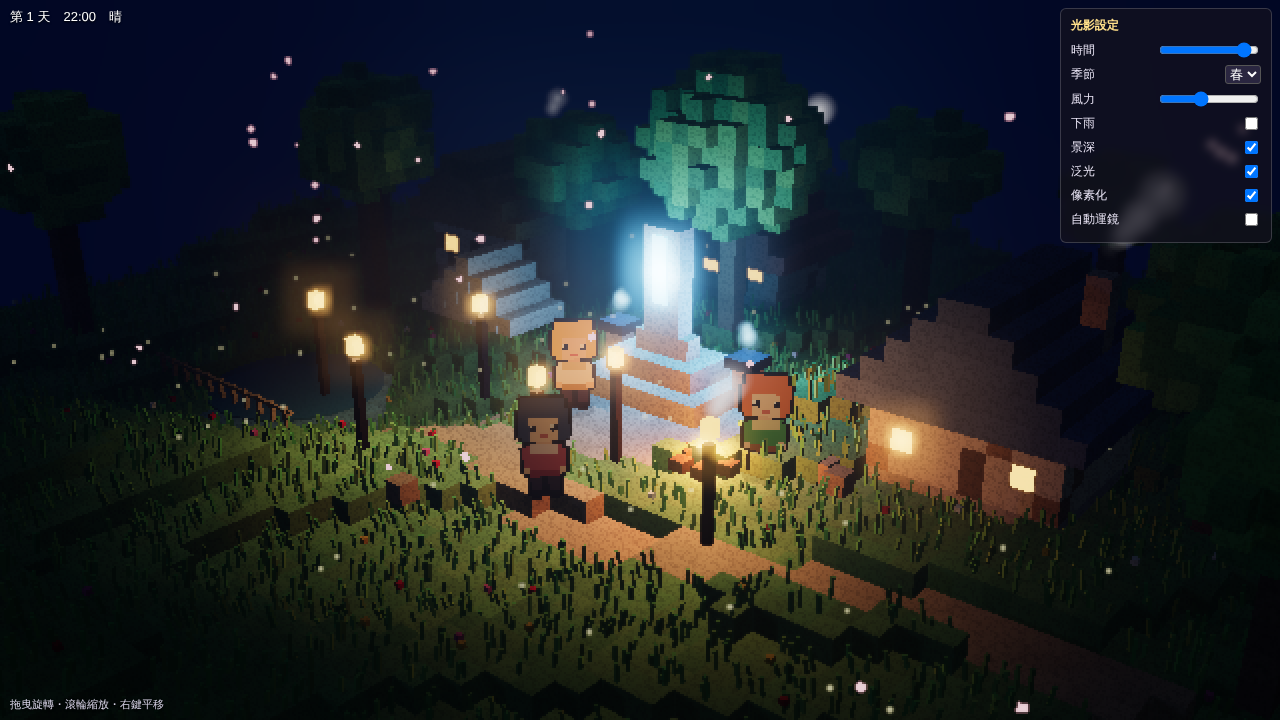
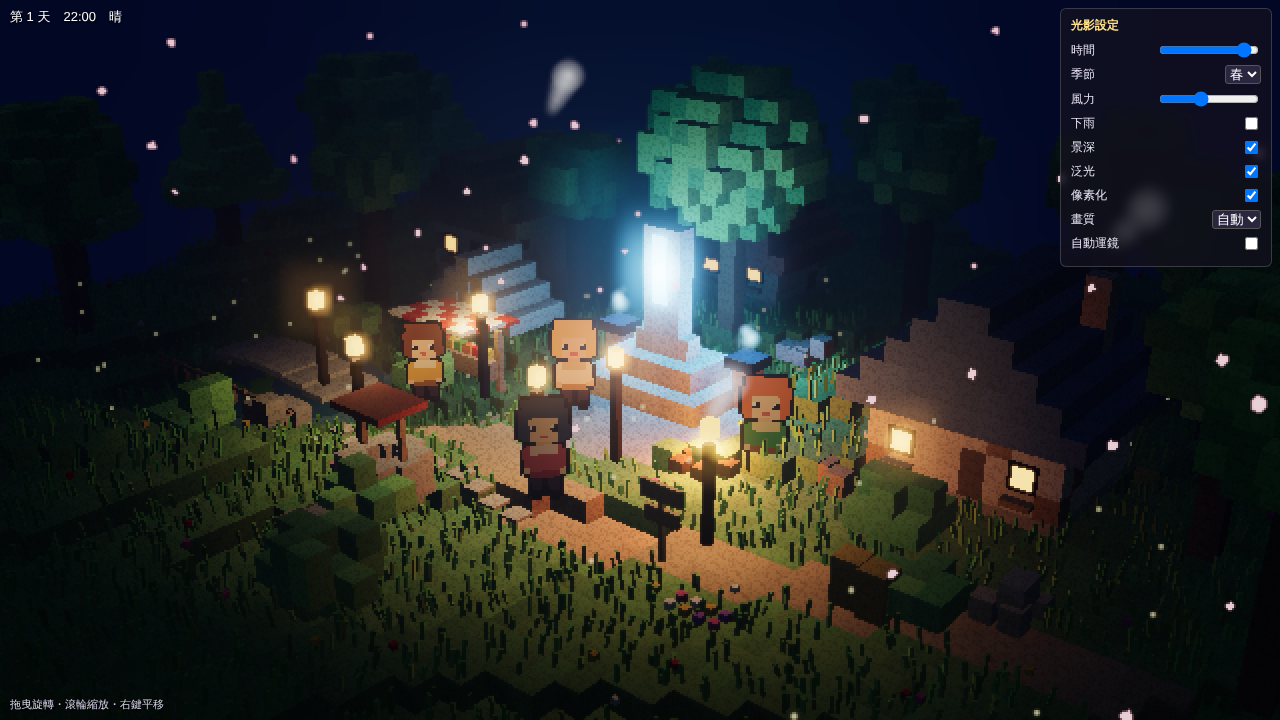
HD-2D 測試：美術加細（市集、水井、石橋、松樹、灌木、乾草、雲與雲影）、地形去掉看不到的方塊（三角形 74 萬→50 萬）、手機面板預設收合、整幀繪製量統計
Claude-Session: https://claude.ai/code/session_01T2m48yY9VNHhuqa1fb9V8L

diff --git a/hd2d-test/src/main.js b/hd2d-test/src/main.js
@@ -16,7 +16,7 @@ const LOW = q.get('q') === 'low' || (q.get('q') !== 'high' && (matchMedia('(poin
 
 // ---------- 渲染器與場景 ----------
 const renderer = new THREE.WebGLRenderer({ antialias: false, powerPreference: 'high-performance' });
-renderer.shadowMap.enabled = true; renderer.shadowMap.type = THREE.PCFSoftShadowMap;
+renderer.info.autoReset = false; renderer.shadowMap.enabled = true; renderer.shadowMap.type = THREE.PCFSoftShadowMap;
 renderer.toneMapping = THREE.ACESFilmicToneMapping; renderer.toneMappingExposure = 1.0;
 document.body.appendChild(renderer.domElement);
 const scene = new THREE.Scene();
@@ -50,15 +50,16 @@ class Voxels {
 
 // ---------- 地形 ----------
 const N = 64, H = N / 2;
-const hgt = (x, z) => Math.floor(1.6 * (Math.sin(x * 0.13) * Math.cos(z * 0.11) + 0.5 * Math.sin(x * 0.31 + z * 0.27)) + 1.6 * Math.max(0, (Math.hypot(x, z) - 20) / 16));
+const hgt = (x, z) => { const h = Math.floor(1.6 * (Math.sin(x * 0.13) * Math.cos(z * 0.11) + 0.5 * Math.sin(x * 0.31 + z * 0.27)) + 1.6 * Math.max(0, (Math.hypot(x, z) - 20) / 16)); return x + z > 10 ? Math.min(h, Math.max(0, 1 - Math.floor((x + z - 10) / 8))) : h; };
 const ground = new Voxels({ rough: 1 });
 const isPlaza = (x, z) => Math.hypot(x, z * 1.1) < 7;
 const isPath = (x, z) => Math.abs(z - 9 - Math.sin(x * 0.2) * 1.4) < 1.5 && x > -10 || Math.abs(x + 6 + Math.sin(z * 0.2)) < 1.1 && z > -8 && z < 10;
 const pond = (x, z) => Math.hypot(x + 15, z - 9) < 4.2;
 const grassCells = [];
+const cellH = (x, z) => { let h = hgt(x, z); if (isPlaza(x, z) || isPath(x, z)) h = Math.min(h, 0); if (pond(x, z)) h = -1; return h; };
 for (let x = -H; x < H; x++) for (let z = -H; z < H; z++) {
-  let h = hgt(x, z); if (isPlaza(x, z) || isPath(x, z)) h = Math.min(h, 0); if (pond(x, z)) h = -1;
-  for (let y = Math.min(h, 0) - 1; y <= h; y++) {
+  const h = cellH(x, z), nh = Math.min(cellH(x + 1, z), cellH(x - 1, z), cellH(x, z + 1), cellH(x, z - 1));
+  for (let y = Math.min(h, nh); y <= h; y++) { // 只畫看得到的：最上面一層，加上露出側面的那幾層（被埋住的方塊不畫，省三角形）
     const top = y === h; let c;
     if (pond(x, z) && top) c = hsl(0.55, 0.45, 0.32 + rnd() * 0.03);
     else if (isPlaza(x, z) && top) c = hsl(0.1, 0.06, 0.4 + rnd() * 0.08);
@@ -71,6 +72,7 @@ for (let x = -H; x < H; x++) for (let z = -H; z < H; z++) {
 }
 ground.build();
 
+const flowers = new Voxels({ cast: false });
 // ---------- 建築與小物 ----------
 const wood = () => hsl(0.08, 0.4, 0.3 + rnd() * 0.06), plaster = () => hsl(0.12, 0.25, 0.7 + rnd() * 0.06), stone = () => hsl(0.1, 0.05, 0.45 + rnd() * 0.1), dark = () => hsl(0.07, 0.3, 0.16);
 const solid = new Voxels(), glowWin = new Voxels({ emissive: 0xffc060, cast: false }), blueFlame = [];
@@ -82,7 +84,7 @@ function house(x0, z0, w, d, h, roof, rotChim = true) {
     const y = h + k; for (let x = -1 + k; x <= w - k; x++) for (let z = -1; z <= d; z++) if (k * 2 < w + 1) solid.add(x0 + x, y, z0 + z, hsl(roof[0], roof[1], roof[2] + rnd() * 0.05 - k * 0.012));
   }
   const dx = x0 + Math.floor(w / 2); solid.add(dx, 1, z0 + d - 1, dark()); solid.add(dx, 2, z0 + d - 1, dark());
-  for (const wx of [x0 + 1, x0 + w - 2]) { glowWin.add(wx, 2, z0 + d - 1 + 0.02, 0xffd890, 0.9, 0.9, 1.05); }
+  for (const wx of [x0 + 1, x0 + w - 2]) { solid.add(wx, 2, z0 + d - 1 + 0.03, 0x3a2a20, 1.18, 1.18, 1.0); glowWin.add(wx, 2, z0 + d - 1 + 0.06, 0xffd890, 0.82, 0.82, 1.05); solid.add(wx, 1.05, z0 + d - 0.2, wood(), 1.2, 0.25, 0.5); }
   if (rotChim) { for (let y = h; y < h + 4; y++) solid.add(x0 + w - 2, y + 1, z0 + 1, stone()); smokeSources.push([x0 + w - 2, h + 5.5, z0 + 1]); }
 }
 const smokeSources = [];
@@ -119,8 +121,30 @@ lamps.forEach(([x, z]) => { for (let y = 0; y < 4; y++) solid.add(x, y + 0.5, z,
 [[10.5, 2], [11.5, 2.5], [-1, 14], [14, -1]].forEach(([x, z]) => solid.add(x, 0.5, z, wood(), 0.9));
 for (let x = -20; x < -9; x++) { solid.add(x, 0.6, 13, wood(), 0.2, 0.9, 0.2); solid.add(x, 0.9, 13, wood(), 1, 0.15, 0.15); }
 for (let k = 0; k < 4; k++) for (let x = -k; x <= k; x++) solid.add(-14 + x, 0.6 + (3 - k) * 0.9, -3, hsl(0.1, 0.25, 0.72), 0.95, 0.95, 4);
+
+// ---- 更多細節：松樹、灌木、石頭、市集攤位、水井、石橋、乾草、路標、墊腳石 ----
+function pine(x, z, h = 8) { const gy = Math.max(0, hgt(x, z)); for (let y = 0; y < 3; y++) solid.add(x, gy + y + 0.5, z, hsl(0.07, 0.4, 0.17)); for (let k = 0; k < h - 2; k++) { const r = Math.max(0, 3.4 - k * 0.5); for (let i = -4; i <= 4; i++) for (let j = -4; j <= 4; j++) if (Math.hypot(i, j) + rnd() * 0.5 < r) leaves.add(x + i, gy + 3 + k + 0.5, z + j, new THREE.Color(), 1, 1, 1, 0.9 + rnd() * 0.1); } }
+[[-31, 2], [-30, -14], [24, -22], [-17, -27], [34, -14], [36, 4], [-34, 10]].forEach(([x, z]) => pine(x, z, 8 + Math.floor(rnd() * 3)));
+function bush(x, z, r = 1.6) { const gy = Math.max(0, hgt(x, z)); for (let i = -2; i <= 2; i++) for (let j = -1; j <= 1; j++) for (let k = -2; k <= 2; k++) if (Math.hypot(i, j * 1.4, k) + rnd() * 0.6 < r) leaves.add(x + i, gy + j + 1, z + k, new THREE.Color(), 1, 1, 1, rnd()); }
+[[-9, 6], [-1, 16], [15, 4], [-17, 4], [9, -8], [-4, -4], [18, 8], [-12, 16], [2, 20]].forEach(([x, z]) => bush(x, z, 1.5 + rnd() * 0.6));
+function rock(x, z, n = 4) { const gy = Math.max(0, hgt(x, z)); for (let i = 0; i < n; i++) solid.add(x + rr(-1, 1), gy + 0.4 + (i > 2 ? 0.7 : 0), z + rr(-1, 1), hsl(0.1, 0.04, 0.38 + rnd() * 0.12), rr(0.7, 1.3), rr(0.6, 1.1), rr(0.7, 1.3)); }
+[[-11, 13], [17, -2], [-1, 18], [20, 6], [-18, -5], [3, -9]].forEach(([x, z]) => rock(x, z, 4));
+// 市集攤位（條紋遮陽）
+{ const x0 = -10, z0 = 4; for (const dx of [0, 4]) for (let y = 0; y < 3; y++) solid.add(x0 + dx, y + 0.5, z0, wood(), 0.3, 1, 0.3); for (let x = 0; x < 5; x++) for (let z = -1; z < 3; z++) solid.add(x0 + x - 0.5, 3.2 + z * 0.1, z0 + z * 0.9, (x + z) % 2 ? 0xd84a3a : 0xf4ecd8, 1, 0.2, 0.9); for (let x = 0; x < 4; x++) solid.add(x0 + 0.5 + x, 1.1, z0 + 0.2, wood(), 1, 0.9, 0.9); for (let i = 0; i < 6; i++) solid.add(x0 + 0.4 + i * 0.6, 1.75, z0 + 0.2, [0xd8333a, 0xe8c040, 0x6ab04a, 0xe8873a][i % 4], 0.45); }
+// 水井
+{ const wx = -2, wz = 14; for (let a = 0; a < 8; a++) { const ang = a / 8 * Math.PI * 2; solid.add(wx + Math.cos(ang) * 1.2, 0.5, wz + Math.sin(ang) * 1.2, stone()); solid.add(wx + Math.cos(ang) * 1.2, 1.4, wz + Math.sin(ang) * 1.2, stone(), 1, 0.8, 1); } solid.add(wx - 1.2, 2.5, wz, wood(), 0.25, 2.2, 0.25); solid.add(wx + 1.2, 2.5, wz, wood(), 0.25, 2.2, 0.25); for (let x = -1; x <= 1; x++) solid.add(wx + x * 0.9, 3.8, wz, 0xa84a30, 1.1, 0.3, 2.4); }
+// 乾草堆、路標、墊腳石、石橋
+for (let i = 0; i < 4; i++) solid.add(16 + (i % 2) * 1.1, 0.5 + Math.floor(i / 2) * 0.9, 9 + (i % 2) * 0.2, 0xd8b050, 1.05, 0.9, 1.05);
+solid.add(9.5, 1.5, 11, wood(), 0.2, 3, 0.2); solid.add(9.5, 2.7, 11, wood(), 1.8, 0.7, 0.18); solid.add(9.5, 1.8, 11, wood(), 1.5, 0.6, 0.18);
+for (let i = 0; i < 9; i++) solid.add(-8 + i * 1.4, 0.05, 11.5 + Math.sin(i) * 0.5, stone(), 0.9, 0.12, 0.9);
+for (let i = 0; i < 6; i++) { solid.add(-19 + i * 1.5, 0.35 + Math.sin(i / 5 * Math.PI) * 0.4, 9, stone(), 1.5, 0.3, 3.2); }
+// 木牌與花圃
+for (let x = 0; x < 4; x++) for (let z = 0; z < 2; z++) flowers.add(12 + x * 0.6, 0.5, 13 + z * 0.6, [0xe070b0, 0xf0f0f0, 0xe8c040, 0xb070e0][(x + z) % 4], 0.3);
 solid.build(); glowWin.build(); const leafMesh = leaves.build();
 
+// ---------- 雲（會在地面投下影子）----------
+const cloudMat = new THREE.MeshBasicMaterial({ color: 0xffffff, transparent: true, opacity: 0.85, fog: false });
+const clouds = []; for (let i = 0; i < 7; i++) { const g = new THREE.Group(); const n = 5 + Math.floor(rnd() * 5); for (let k = 0; k < n; k++) { const b = new THREE.Mesh(box, cloudMat); b.scale.set(rr(4, 8), rr(1.4, 2.4), rr(3, 6)); b.position.set(k * 3.2 - n * 1.6, rr(-0.4, 0.5), rr(-2, 2)); b.castShadow = true; g.add(b); } g.position.set(rr(-60, 60), rr(34, 40), rr(-50, 20)); scene.add(g); clouds.push(g); }
 // ---------- 草與花（風吹）----------
 const windU = { value: 0.8 }, timeU = { value: 0 };
 const grassGeo = new THREE.BoxGeometry(0.12, 0.7, 0.12); grassGeo.translate(0, 0.35, 0);
@@ -141,12 +165,12 @@ for (let i = 0; i < GN; i++) {
   grass.setMatrixAt(i, gm); const c = hsl(0.27 + rnd() * 0.07, 0.6, 0.26 + rnd() * 0.14); grassBase.push(c); grass.setColorAt(i, c);
 }
 grass.castShadow = false; grass.receiveShadow = true; scene.add(grass);
-const flowers = new Voxels({ cast: false });
 for (let i = 0; i < 160; i++) { const [cx, h, cz] = grassCells[Math.floor(rnd() * grassCells.length)]; flowers.add(cx + rnd() - 0.5, h + 0.55, cz + rnd() - 0.5, [0xd8333a, 0xe8c040, 0xf0f0f0, 0xe070b0][Math.floor(rnd() * 4)], 0.22); }
 flowers.build();
 // 池塘水面
 const water = new THREE.Mesh(new THREE.CylinderGeometry(4.2, 4.2, 0.1, 24), new THREE.MeshStandardMaterial({ color: 0x4a9ac8, roughness: 0.08, metalness: 0.5, transparent: true, opacity: 0.82 }));
 water.position.set(-15, -0.55, 9); scene.add(water);
+for (let i = 0; i < 7; i++) { const p = new THREE.Mesh(new THREE.CylinderGeometry(0.6, 0.6, 0.06, 8), new THREE.MeshStandardMaterial({ color: 0x4a9a50 })); p.position.set(-15 + rr(-3, 3), -0.48, 9 + rr(-3, 3)); scene.add(p); }
 
 // ---------- 角色（2 頭身像素小人，面向鏡頭的看板）----------
 function chibi(hair, cloth, cloth2, accent) {
@@ -174,10 +198,11 @@ function person(x, z, tex, h = 4.4) {
 person(-1.8, 3.4, chibi('#f0d070', '#fdfdfd', '#e8d8a8', '#c8a850'));
 person(8.4, 3.2, chibi('#e88a40', '#58a860', '#e8e0b0', '#a07040'));
 person(3.2, 10.4, chibi('#4a5a8a', '#c86878', '#f0e0e0', '#a84858'));
+person(-7.5, 7.2, chibi('#8a5a3a', '#e8c040', '#fdf4d8', '#a07828'), 4.0);
 
 // ---------- 光源 ----------
 const sun = new THREE.DirectionalLight(0xfff0d0, 3); sun.castShadow = true; sun.shadow.mapSize.set(LOW ? 1024 : 2048, LOW ? 1024 : 2048);
-Object.assign(sun.shadow.camera, { left: -42, right: 42, top: 42, bottom: -42, near: 1, far: 160 }); sun.shadow.bias = -0.0006; sun.shadow.normalBias = 0.04; scene.add(sun, sun.target);
+Object.assign(sun.shadow.camera, { left: -42, right: 42, top: 42, bottom: -42, near: 1, far: 220 }); sun.shadow.bias = -0.0006; sun.shadow.normalBias = 0.04; scene.add(sun, sun.target);
 const hemi = new THREE.HemisphereLight(0xbcd8ff, 0x4a5a3a, 0.7); scene.add(hemi);
 const fireLight = new THREE.PointLight(0xff8a30, 0, 22, 1.6); fireLight.position.set(fire.x, 1.8, fire.z); fireLight.castShadow = false; scene.add(fireLight);
 const lampLights = lamps.slice(0, 4).map(([x, z]) => { const l = new THREE.PointLight(0xffd090, 0, 16, 1.6); l.position.set(x, 4.8, z); scene.add(l); return l; });
@@ -223,7 +248,7 @@ function atTime(t) { let i = 0; while (i < KEYS.length - 2 && t > KEYS[i + 1][0]
 function applyTime(t) {
   const k = atTime(t), elev = Math.sin((t - 6) / 12 * Math.PI), day = Math.max(0, elev), night = Math.min(1, Math.max(0, 0.5 - elev * 2.2));
   scene.background = k.sky; scene.fog.color.copy(k.sky); scene.fog.density = 0.005 + night * 0.004 + (rain.visible ? 0.01 : 0);
-  const ang = (t - 6) / 12 * Math.PI; sun.position.set(Math.cos(ang) * 55, Math.max(8, Math.sin(ang) * 55), 28); sun.target.position.set(0, 0, 0);
+  const ang = (t - 6) / 12 * Math.PI; sun.position.set(Math.cos(ang) * 70, Math.max(10, Math.sin(ang) * 70), 30); sun.target.position.set(0, 0, 0);
   sun.color.copy(k.sunC); sun.intensity = k.sunI * (rain.visible ? 0.45 : 1); hemi.intensity = 0.25 + day * 0.65; hemi.color.copy(k.sky).lerp(new THREE.Color(0xbcd8ff), 0.4);
   fireLight.userData.k = 0.25 + night * 1.2; lampLights.forEach((l) => (l.userData.k = night * 1.6)); blueLights.forEach((l) => (l.userData.k = 0.4 + night * 2.2)); steleLight.userData.k = 0.3 + night * 2;
   scene.traverse((o) => { if (o.isInstancedMesh && o.material.emissive && o.material.emissive.getHex() === 0xffc060) o.material.emissiveIntensity = 0.1 + night * 1.6; });
@@ -238,6 +263,8 @@ $('rain').onchange = (e) => { rain.visible = e.target.checked; applyTime(+$('tim
 if (q.get('t')) $('time').value = q.get('t'); if (q.get('season')) $('season').value = q.get('season'); if (q.get('rain')) $('rain').checked = true;
 if (LOW && q.get('dof') !== '1') $('dof').checked = false; if (q.get('dof') === '0') $('dof').checked = false; if (q.get('bloom') === '0') $('bloom').checked = false; if (q.get('auto') === '0') $('auto').checked = false; if (q.get('pixel') === '0') $('pixel').checked = false;
 $('quality').value = q.get('q') || ''; $('quality').onchange = (e) => { const u = new URL(location.href); if (e.target.value) u.searchParams.set('q', e.target.value); else u.searchParams.delete('q'); location.href = u.toString(); };
+$('ph').onclick = () => { $('panel').classList.toggle('c'); $('ph').textContent = '光影設定 ' + ($('panel').classList.contains('c') ? '▸' : '▾'); };
+if (LOW && q.get('panel') !== '1') $('ph').onclick();
 rain.visible = $('rain').checked; applySeason($('season').value); resize(); applyTime(+$('time').value);
 if (q.get('cam')) { const c = q.get('cam').split(',').map(Number); camera.position.set(c[0], c[1], c[2]); controls.target.set(c[3], c[4], c[5]); }
 
@@ -261,6 +288,8 @@ function frame() {
   const fp = flies.geometry.attributes.position; for (let i = 0; i < FN; i++) { fp.array[i * 3] += Math.sin(T * 0.7 + fph[i]) * dt * 0.6; fp.array[i * 3 + 1] += Math.cos(T * 0.9 + fph[i] * 2) * dt * 0.4; fp.array[i * 3 + 2] += Math.cos(T * 0.5 + fph[i]) * dt * 0.6; } fp.needsUpdate = true;
   fall.forEach((f) => { f.m.position.y -= f.v * dt; f.m.position.x += (0.9 * windU.value + Math.sin(T * 1.5 + f.ph) * 0.6) * dt; f.m.position.z += Math.cos(T + f.ph) * 0.3 * dt; f.m.rotation.set(T * 2 + f.ph, T + f.ph, 0); if (f.m.position.y < 0.2) { f.m.position.set(rr(-30, 30), rr(14, 20), rr(-30, 24)); } });
   if (rain.visible) { const a = rainGeo.attributes.position.array; for (let i = 0; i < RN; i++) { const y = (a[i * 6 + 1] - dt * 38); const ny = y < 0 ? y + 40 : y; const dy = ny - a[i * 6 + 1]; a[i * 6 + 1] += dy; a[i * 6 + 4] += dy; } rainGeo.attributes.position.needsUpdate = true; }
+  clouds.forEach((c, i) => { c.position.x += dt * (0.8 + i * 0.12) * (0.5 + windU.value * 0.5); if (c.position.x > 75) c.position.x = -75; });
+  water.material.opacity = 0.78 + Math.sin(T * 1.3) * 0.04;
   // 角色待機（輕微上下，永遠面向鏡頭）
   for (const p of people) { p.m.position.y = p.h / 2 + Math.abs(Math.sin(T * 2.2 + p.ph)) * 0.12; p.m.rotation.y = Math.atan2(camera.position.x - p.m.position.x, camera.position.z - p.m.position.z); }
   // 運鏡
@@ -269,6 +298,6 @@ function frame() {
   // 景深焦點：對準角色
   const fd = camera.position.distanceTo(new THREE.Vector3(1.5, 2, 4)); bokeh.uniforms.focus.value = fd; bokeh.uniforms.aperture.value = $('dof').checked ? 0.00007 : 0; bokeh.uniforms.maxblur.value = $('dof').checked ? 0.007 : 0;
   bloom.enabled = $('bloom').checked;
-  composer.render(); window.__info = { calls: renderer.info.render.calls, tris: renderer.info.render.triangles, low: LOW, dt }; window.__frames = (window.__frames || 0) + 1; requestAnimationFrame(frame);
+  renderer.info.reset(); composer.render(); window.__info = { calls: renderer.info.render.calls, tris: renderer.info.render.triangles, low: LOW, dt }; window.__frames = (window.__frames || 0) + 1; requestAnimationFrame(frame);
 }
 frame();

diff --git a/hd2d-test/index.html b/hd2d-test/index.html
@@ -1,10 +1,10 @@
 <!doctype html><html lang="zh-Hant"><head><meta charset="utf-8"><meta name="viewport" content="width=device-width,initial-scale=1,maximum-scale=1,user-scalable=no"><title>HD-2D 小鎮測試</title>
 <style>html,body{margin:0;height:100%;background:#0c0a12;overflow:hidden;font-family:"Noto Sans TC","Microsoft JhengHei",sans-serif}canvas{display:block;image-rendering:pixelated;touch-action:none}
 #panel{position:fixed;top:8px;right:8px;width:190px;padding:8px 10px;background:rgba(20,18,30,.72);color:#e8e4f4;font-size:12px;border:1px solid rgba(255,255,255,.18);border-radius:6px;backdrop-filter:blur(4px)}
-#panel b{display:block;margin-bottom:6px;color:#ffe08a}#panel label{display:flex;justify-content:space-between;align-items:center;margin:5px 0;gap:6px}#panel input[type=range]{width:100px}#panel select{background:#2a2640;color:#fff;border:1px solid #555;border-radius:3px}
+#panel b{display:block;margin-bottom:6px;color:#ffe08a}#panel.c #pb{display:none}#panel.c b{margin-bottom:0}#panel label{display:flex;justify-content:space-between;align-items:center;margin:5px 0;gap:6px}#panel input[type=range]{width:100px}#panel select{background:#2a2640;color:#fff;border:1px solid #555;border-radius:3px}
 #clock{position:fixed;left:10px;top:8px;color:#fff;font-size:13px;text-shadow:0 1px 2px #000}#hint{position:fixed;left:10px;bottom:8px;color:#d8d4e8;font-size:11px;text-shadow:0 1px 2px #000}</style></head><body>
 <div id="clock"></div>
-<div id="panel"><b>光影設定</b>
+<div id="panel"><b id="ph" style="cursor:pointer">光影設定 ▾</b><div id="pb">
 <label>時間 <input id="time" type="range" min="0" max="24" step="0.05" value="16.5"></label>
 <label>季節 <select id="season"><option value="spring">春</option><option value="summer">夏</option><option value="autumn">秋</option></select></label>
 <label>風力 <input id="wind" type="range" min="0" max="2" step="0.05" value="0.8"></label>
@@ -13,6 +13,6 @@
 <label>泛光 <input id="bloom" type="checkbox" checked></label>
 <label>像素化 <input id="pixel" type="checkbox" checked></label>
 <label>畫質 <select id="quality"><option value="">自動</option><option value="low">低</option><option value="high">高</option></select></label>
-<label>自動運鏡 <input id="auto" type="checkbox" checked></label></div>
+<label>自動運鏡 <input id="auto" type="checkbox" checked></label></div></div>
 <div id="hint">拖曳旋轉・滾輪縮放・右鍵平移</div>
 <script type="module" src="./src/main.js"></script></body></html>
